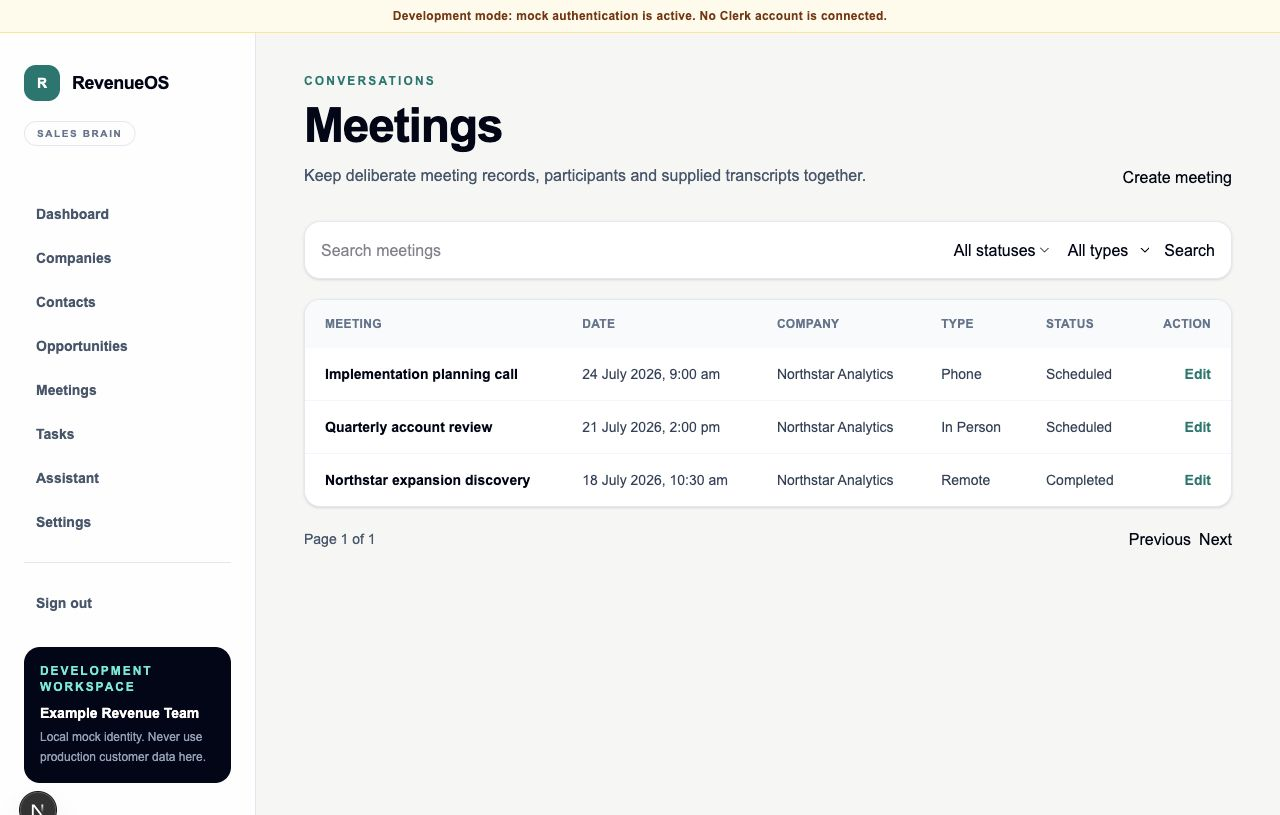
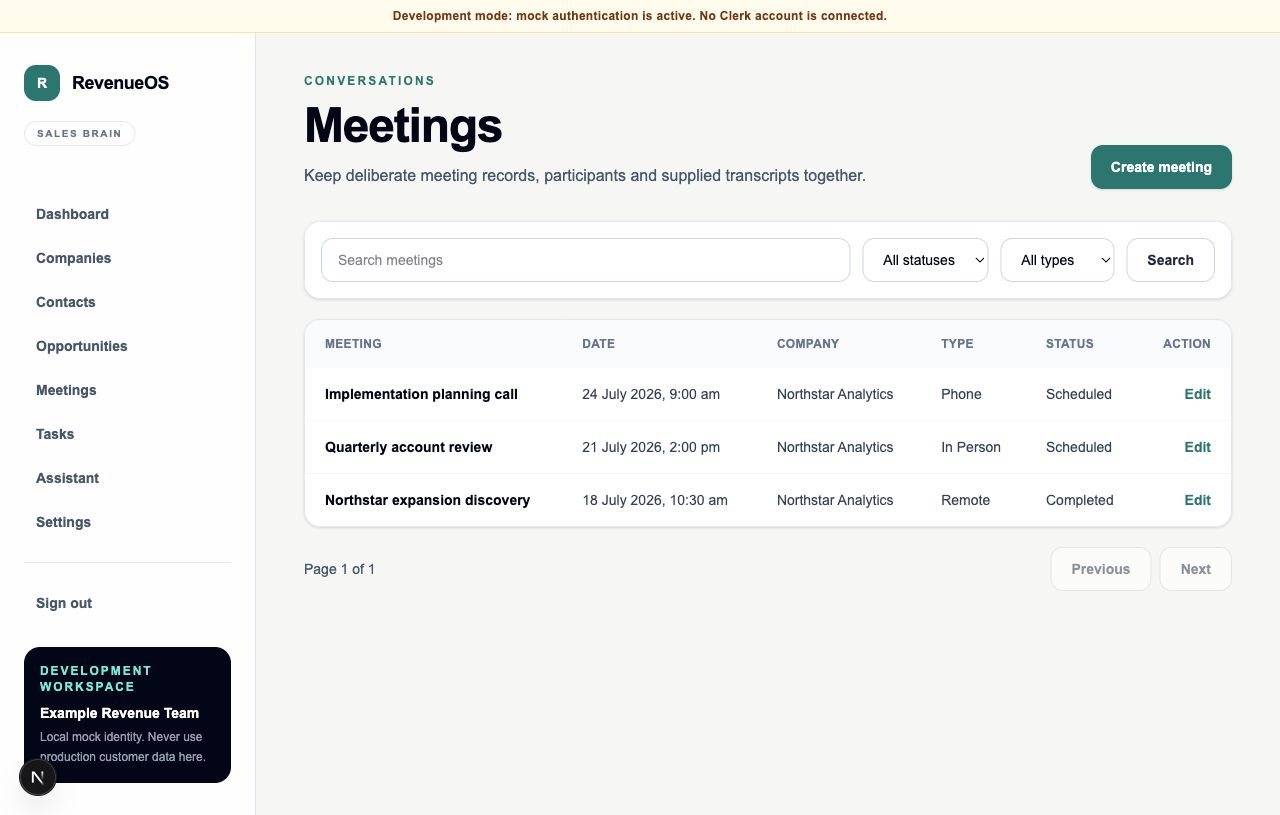
docs: finalise Sprint 3 release evidence

diff --git a/docs/07-sprints/sprint-03-meeting-domain.md b/docs/07-sprints/sprint-03-meeting-domain.md
@@ -20,6 +20,26 @@ Deliver complete non-AI, tenant-isolated support for meetings, participants, del
 - Deliberate browser-side `.txt` reading and plain-text editing; no media upload or processing.
 - API, validation, migration, PostgreSQL RLS, component and browser tests.
 
+## Release notes
+
+**Release identifier:** Sprint 3 / API `0.3.0`
+
+User-visible changes:
+
+- Users can search, filter and page through organisation-scoped meeting records.
+- Users can create and edit meeting metadata, associate an optional company and manage participants.
+- Users can deliberately paste transcript text or select a local `.txt` file for browser-side reading.
+- Users can review meeting details, correct plain-text transcripts with optimistic version protection and inspect content-minimised audit activity.
+- Desktop table and mobile card layouts preserve the same meeting actions and states.
+
+Deployment notes:
+
+- Apply Alembic revision `0003_meeting_domain` before serving API `0.3.0`.
+- The application database role must remain subject to forced RLS and receive a transaction-local organisation context.
+- Downgrade removes the four Sprint 3 tables and their data while preserving Sprint 2 tables; take an environment-appropriate backup before rollback.
+- No existing Sprint 2 endpoint is removed or renamed.
+- Do not use production customer data until production identity, consent, retention/export/erasure and operational controls are complete.
+
 ## Data and migration
 
 Migration `0003_meeting_domain` creates:
@@ -61,7 +81,15 @@ Do not use production customer data. Verified production authentication, consent
 
 ![Meetings list](assets/sprint-03-meetings-list.png)
 
-![Meeting detail overview](assets/sprint-03-meeting-detail.png)
+![Create Meeting](assets/sprint-03-create-meeting.png)
+
+![Meeting detail Overview tab](assets/sprint-03-meeting-detail.png)
+
+![Transcript tab](assets/sprint-03-transcript-tab.png)
+
+![History tab](assets/sprint-03-history-tab.png)
+
+![Meetings mobile view](assets/sprint-03-meetings-mobile.png)
 
 ## Future Meeting Intelligence extension points
 